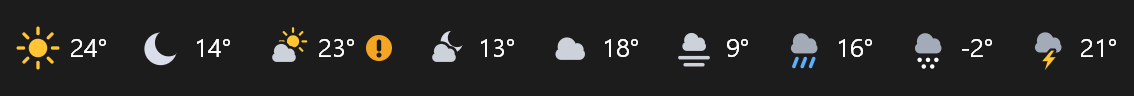
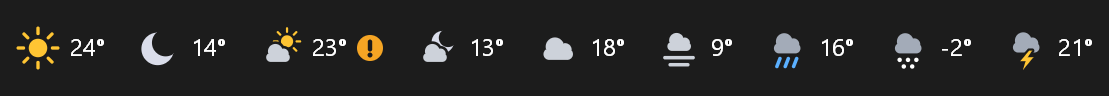
Strip text at 12 px like Claude Taskbar (the temperature looked bold); refresh pictures

diff --git a/src/Strip.cs b/src/Strip.cs
@@ -190,7 +190,7 @@ static unsafe class Strip
         int H = tb.Height;
         int pad = R(8 * s), iconD = R(22 * s), gap = R(5 * s), groupGap = R(14 * s), badgeD = R(13 * s), badgeGap = R(5 * s);
 
-        var font = CreateFontW(-R(13 * s), 0, 0, 0, 400, 0, 0, 0, 1, 0, 0, 4 /* ANTIALIASED_QUALITY: grayscale coverage */, 0, "Segoe UI");
+        var font = CreateFontW(-R(12 * s), 0, 0, 0, 400, 0, 0, 0, 1, 0, 0, 4 /* ANTIALIASED_QUALITY: grayscale coverage */, 0, "Segoe UI");
         var screen = GetDC(0);
         var dc = CreateCompatibleDC(screen);
         ReleaseDC(0, screen);
